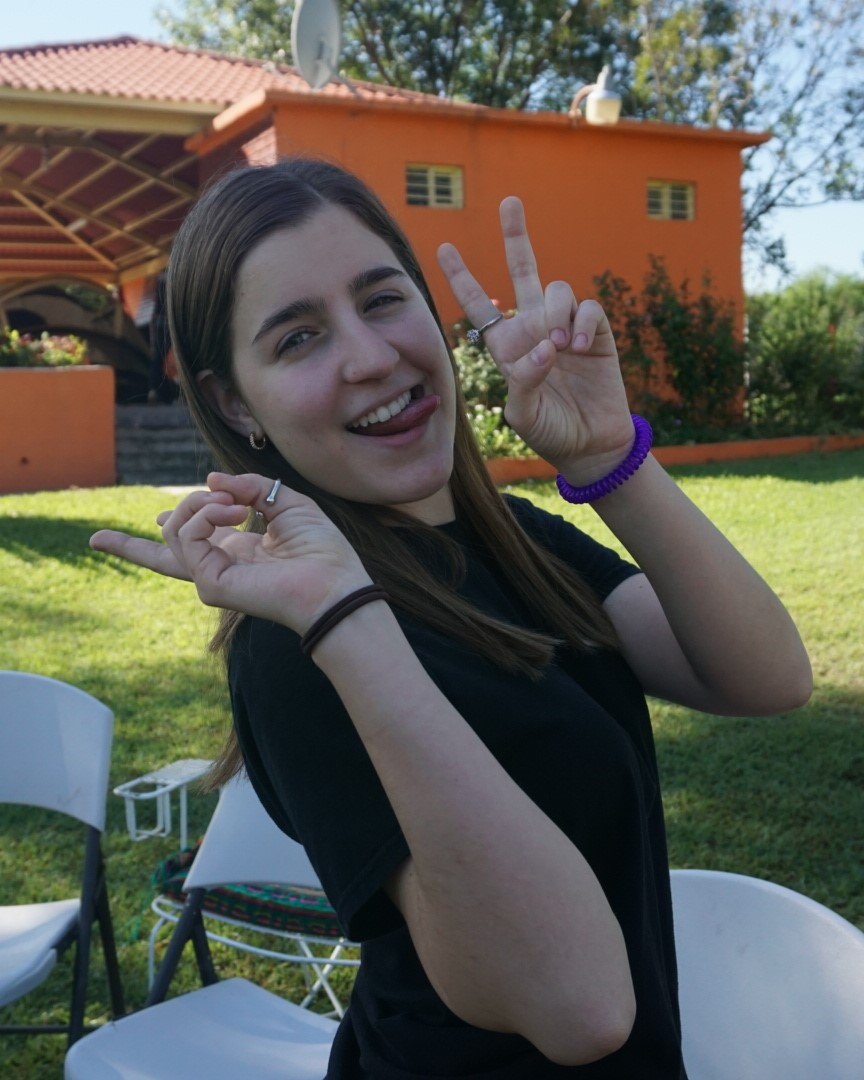
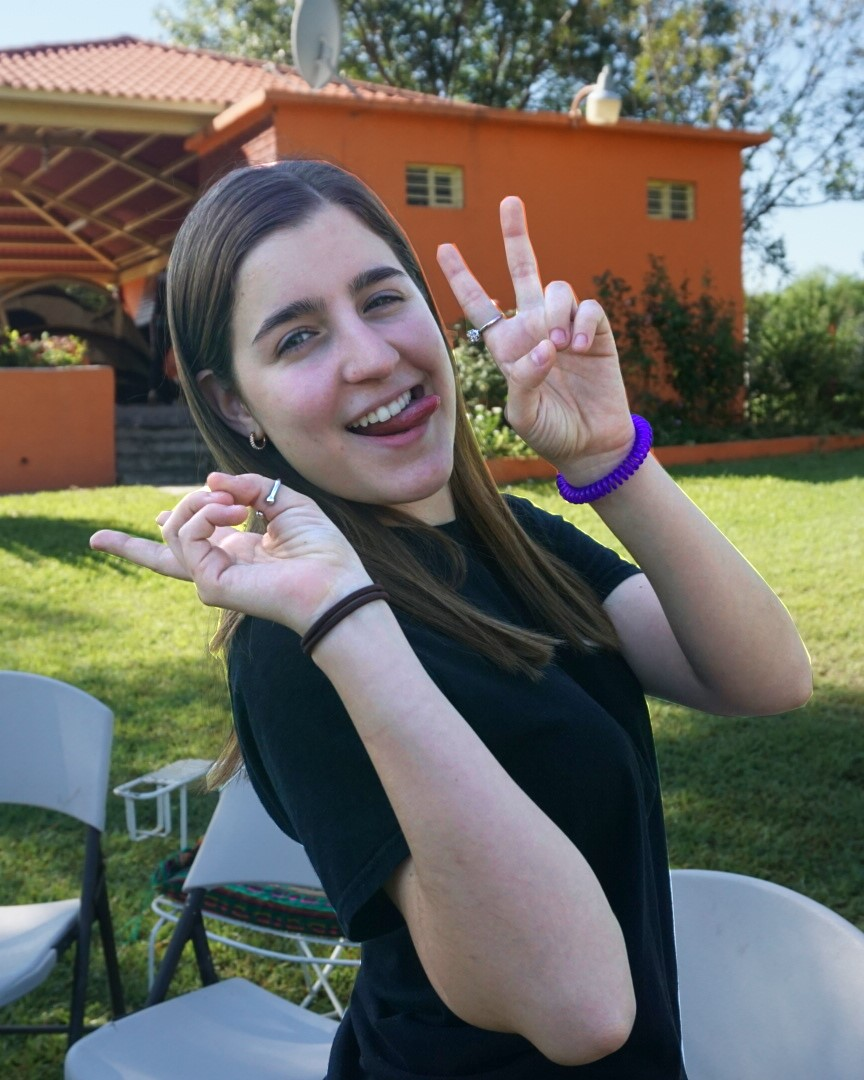
Better image and primary color

diff --git a/seek.config.ts b/seek.config.ts
@@ -1,7 +1,7 @@
 export const config = {
     name: "María Emma",
     description: `Tengo 19 años y quiero ir a <a href="https://seek.focus.org" target="_blank">SEEK 24</a>: la mayor conferencia para universitarios católicos en Estados Unidos.`,
-    primaryColor: "61 78 60",
+    primaryColor: "44 160 90",
     clabe: "clabe de maria emma va aqui",
     bank: "banco de maria emma va aqui",
     speiInstructions: "Puedes depositarme a mi cuenta personal. En la descripción de la transferencia, pon tu nombre y el texto 'SEEK' para poder agradecerte :)",
